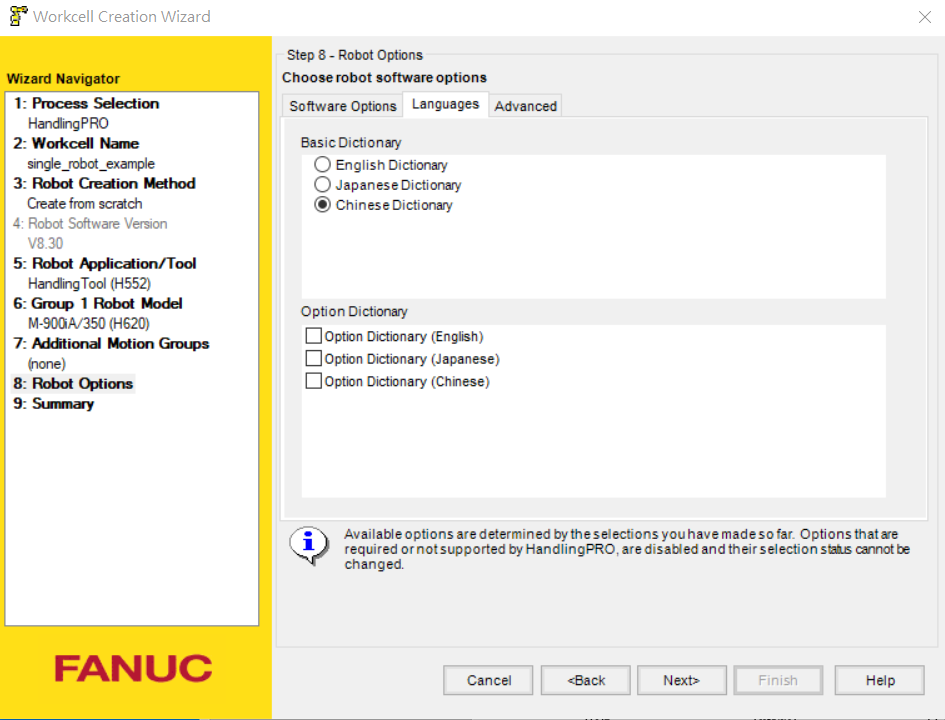
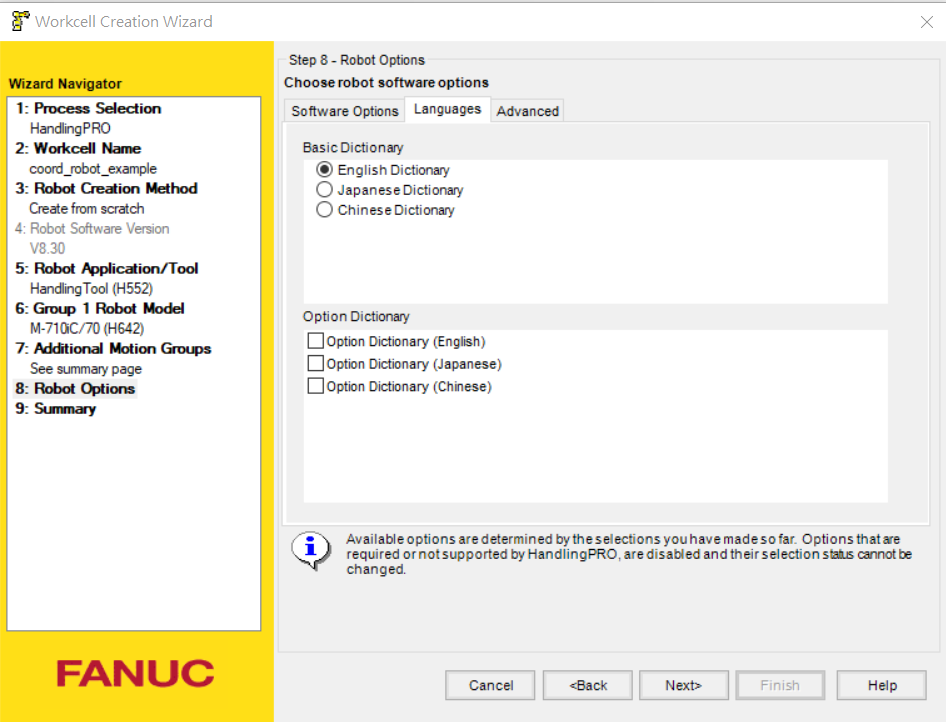
coord md

Changed region(s): [[0.0, 0.0611, 0.982, 1.0], [0.0, 0.0, 1.0, 0.0611], [0.4603, 0.9167, 0.982, 0.9778]]

diff --git a/fanuc_motion_program_exec_client.py b/fanuc_motion_program_exec_client.py
@@ -496,6 +496,9 @@ def multi_robot_coord():
     tp_lead = TPMotionProgram()
     tp_follow = TPMotionProgram()
 
+    # robtarget(motion group, uframe, utool, [x,y,z], [w,p,r], confdata, external axis)
+    # jointtarget(motion group, uframe, utool, [j1,j2,j3,j4,j5,j6], confdata, external axis)
+
     # these are for follower robot, follower must be motion group 1
     jt11 = jointtarget(1,1,2,[-49.7,4.3,-30.9,-20.9,-35.8,52.1],[0]*6)
     pt12 = robtarget(1,1,2,[1383.1,-484.0,940.6],[171.5,-26.8,-9.8],confdata('N','U','T',0,0,0),[0]*6)
@@ -528,6 +531,9 @@ def multi_robot():
     tp1 = TPMotionProgram()
     tp2 = TPMotionProgram()
 
+    # robtarget(motion group, uframe, utool, [x,y,z], [w,p,r], confdata, external axis)
+    # jointtarget(motion group, uframe, utool, [j1,j2,j3,j4,j5,j6], confdata, external axis)
+
     # use uframe=1 and utool=2
     # these are for motion group 1 (robot 1)
     jt11 = jointtarget(1,1,2,[38.3,23.3,-10.7,45.7,-101.9,-48.3],[0]*6)
@@ -559,8 +565,10 @@ def single_robot():
 
     tp = TPMotionProgram()
 
+    # robtarget(motion group, uframe, utool, [x,y,z], [w,p,r], confdata, external axis)
     pt1 = robtarget(1,1,2,[1850,200,290],[-180,0,0],confdata('N','U','T',0,0,0),[0]*6)
     pt2 = robtarget(1,1,2,[1850,200,589],[-180,0,0],confdata('N','U','T',0,0,0),[0]*6)
+    # jointtarget(motion group, uframe, utool, [j1,j2,j3,j4,j5,j6], confdata, external axis)
     jt1 = jointtarget(1,1,2,[0,20,-10,0,-20,10],[0]*6)
     pt3 = robtarget(1,1,2,[1850,250,400],[-180,0,0],confdata('N','U','T',0,0,0),[0]*6)
     

diff --git a/doc/multi_robot_coord_setup.md b/doc/multi_robot_coord_setup.md
@@ -8,7 +8,7 @@ Lanuch RoboGuide and click `New Cell`, a window will pop up. Choose `HandlingPRO
 
 Name your workcell. Click next.
 
-![](figures/step_2_m.png)
+![](figures/step_2_coord.png)
 
 Use the default config, click next.
 
@@ -20,15 +20,15 @@ Choose `Set Eoat later` as we don't need a tool now.
 
 ![](figures/step_4.png)
 
-Choose your robot model, we choose `M-900ia/350` as the example.
+Choose your `follower` robot model. It's usually the robot holding the tool (e.g. a welding gun). We choose `M-710ic/70` as the example.
 
-![](figures/step_5.png)
+![](figures/step_5_coord.png)
 
 For the multi-robot case, we need additional motion groups. Choose the robot model you want on the upper tab and click `>>` botton next to `2` so that the second robot is motion group number `2`. (The first robot is motion group number `1`). 
 
-![](figures/step_6_m.png)
+![](figures/step_6_coord.png)
 
-Now the robot options need to be added. Search `Karel (R632)` and `Constant Path (R663)` and click the box. Necessary for RoboGuide including `Multi-Group Motion (J601)` is added automatically by RoboGuid.
+Now the robot options need to be added. Search `Karel (R632)`, `Constant Path (R663)` and `Coord Motion Package (J686)` and click the box. Necessary packages for RoboGuide including `Multi-Group Motion (J601)` are added automatically by RoboGuid.
 
 ![](figures/step_7_1.png)
 ![](figures/step_7_2.png)
@@ -39,7 +39,7 @@ Click on `Languanges` tab and choose `English Dictionary`. Click next.
 
 You should see an overview of your setup like this. click finish.
 
-![](figures/step_8_m.png)
+![](figures/step_8_coord.png)
 
 While the teach pendant panel is running robot setup, the panel will ask you to choose the flange type in the middle of setup. Choose `1` and click `ENTER` for both of the robots on your virual teach pandent. Select `1` for FSSB configuration. Enter `7` for the hardware start axis of the second robot because the first robot has 6 axis. Enter `2` for the brake number. Enter `2` for the amplifier number.
 
@@ -47,11 +47,11 @@ After the setup process in the virtual teach pendent is done, You should see you
 
 ## Robot Controller Setup
 
-We are now setting up payload, communication, user and tool frames. Click the virtual teach pandant button on the top left (under the `File` button). You should see the teach pandant pop up. Click on the blinking triangle on the top right of the teach pandant to setup payload information. Remeber that the motion will change when the payload information change. **Especially when the payload is closed to limit.**
+We are now setting up payload, communication, user and tool frames. Click the virtual teach pandant button on the top left (under the `File` button). You should see the teach pandant pop up. Click on the blinking triangle on the top right of the teach pandant to setup payload information.
 
 ![](figures/step_10.png)
 
-Click `SETIND` and activate PAYLOAD number `1`. Click `GROUP` and enter `2`. Click `SETIND` again and activate PAYLOAD number `1`. The blinking triangle should disappear at this point. You can change your information of payload in the future.
+Click `SETIND` and activate PAYLOAD number `1`. Click `GROUP` and enter `2`. Click `SETIND` again and activate PAYLOAD number `1`. The blinking triangle should disappear at this point. You can change your information of payload now or in the future. Remeber that the motion will change when the payload information change. **Especially when the payload is closed to limit.**
 
 ![](figures/step_11.png)
 
@@ -76,6 +76,12 @@ Press `MENU` button, choose `6 SETUP`, `3 Frames`. You should see `Tool Frame G1
 Click `[OTHER]` and `7 Group 2`. Redo the frame setup for motion group `2` (i.e. the second robot).
 
 In the python module, you have the flexibility to choose which tool/user frame you are using.
+
+## Robot Calibration
+
+Press `MENU` button, choose `6 SETUP`, `0 NEXT`, `5 Coord`. Set Leader Group to `2` and Follower Group to `1`. You can set whichever group to follower or leader but keep it consistent. Click `C_TYP`, `3 Known Direct`. Enter the relative transformation of the robot. Press `Shift` and `Exec`. At this point you need to restart the robot controller.  You can also use `1 Known 4 Pt` to properly calibrate your robot. 
+
+Click `C_TYP`, `4 Leader Frame`. Move the cursor to `origin point`. Jog the follower robot to the origin point of the workpiece. Press `shift` and `record`. Move the cursor to `x direction point`. Jog the follower robot to a point on x-axis of the workpiece. Press `shift` and `record`. Move the cursor to `y direction point`. Jog the follower robot to a point on y-axis of the workpiece. Press `shift` and `record`. Press `Shift` and `Exec`.
 
 ## Module Program Load
 

diff --git a/doc/robot_setup.md b/doc/robot_setup.md
@@ -49,7 +49,7 @@ After the setup process in the virtual teach pendent is done, You should see you
 
 ## Robot Controller Setup
 
-We are now setting up payload, communication, user and tool frames. Click the virtual teach pandant button on the top left (under the `File` button). You should see the teach pandant pop up. Click on the blinking triangle on the top right of the teach pandant to setup payload information.
+We are now setting up payload, communication, user and tool frames. Click the virtual teach pandant button on the top left (under the `File` button). You should see the teach pandant pop up. Click on the blinking triangle on the top right of the teach pandant to setup payload information. Remeber that the motion will change when the payload information change. **Especially when the payload is closed to limit.**
 
 ![](figures/step_10.png)
 

diff --git a/README.md b/README.md
@@ -22,6 +22,7 @@ The installation of modulel in RoboGuide includes setting up a cell and loading 
 
 - Single Robot: See [robot_setup.md](https://github.com/eric565648/fanuc_motion_program_exec/blob/main/doc/robot_setup.md)
 - Multi Robot: See [multi_robot_setup.md](https://github.com/eric565648/fanuc_motion_program_exec/blob/main/doc/multi_robot_setup.md)
+- Multi Robot with Coordinated Motion [multi_robot_coord_setup.md](https://github.com/eric565648/fanuc_motion_program_exec/blob/main/doc/multi_robot_coord_setup.md)
 
 ### Real Robot
 
